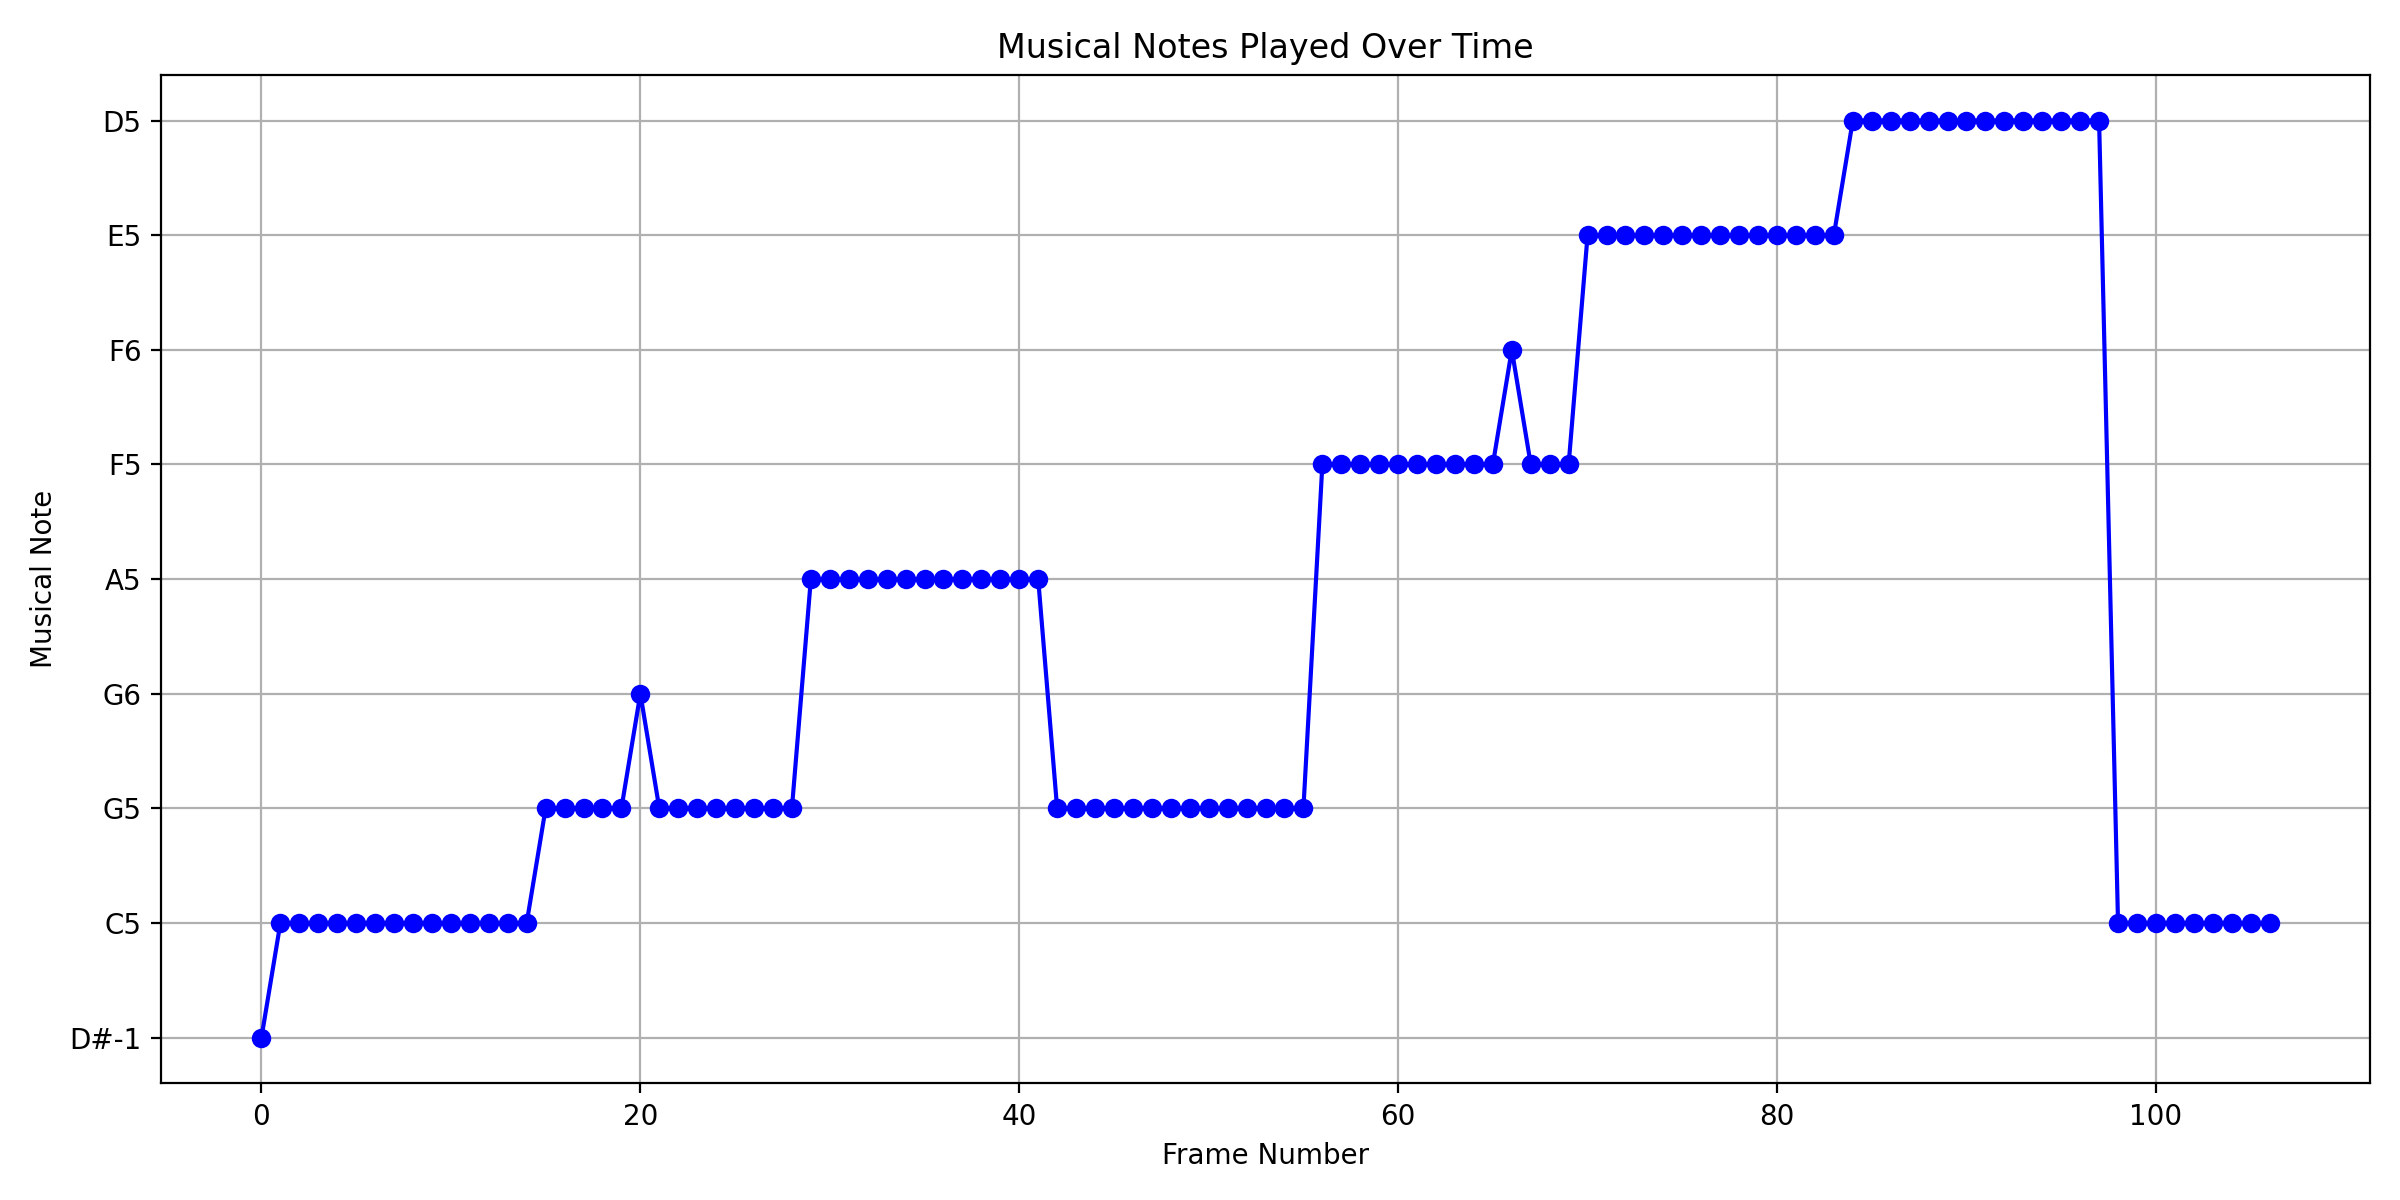
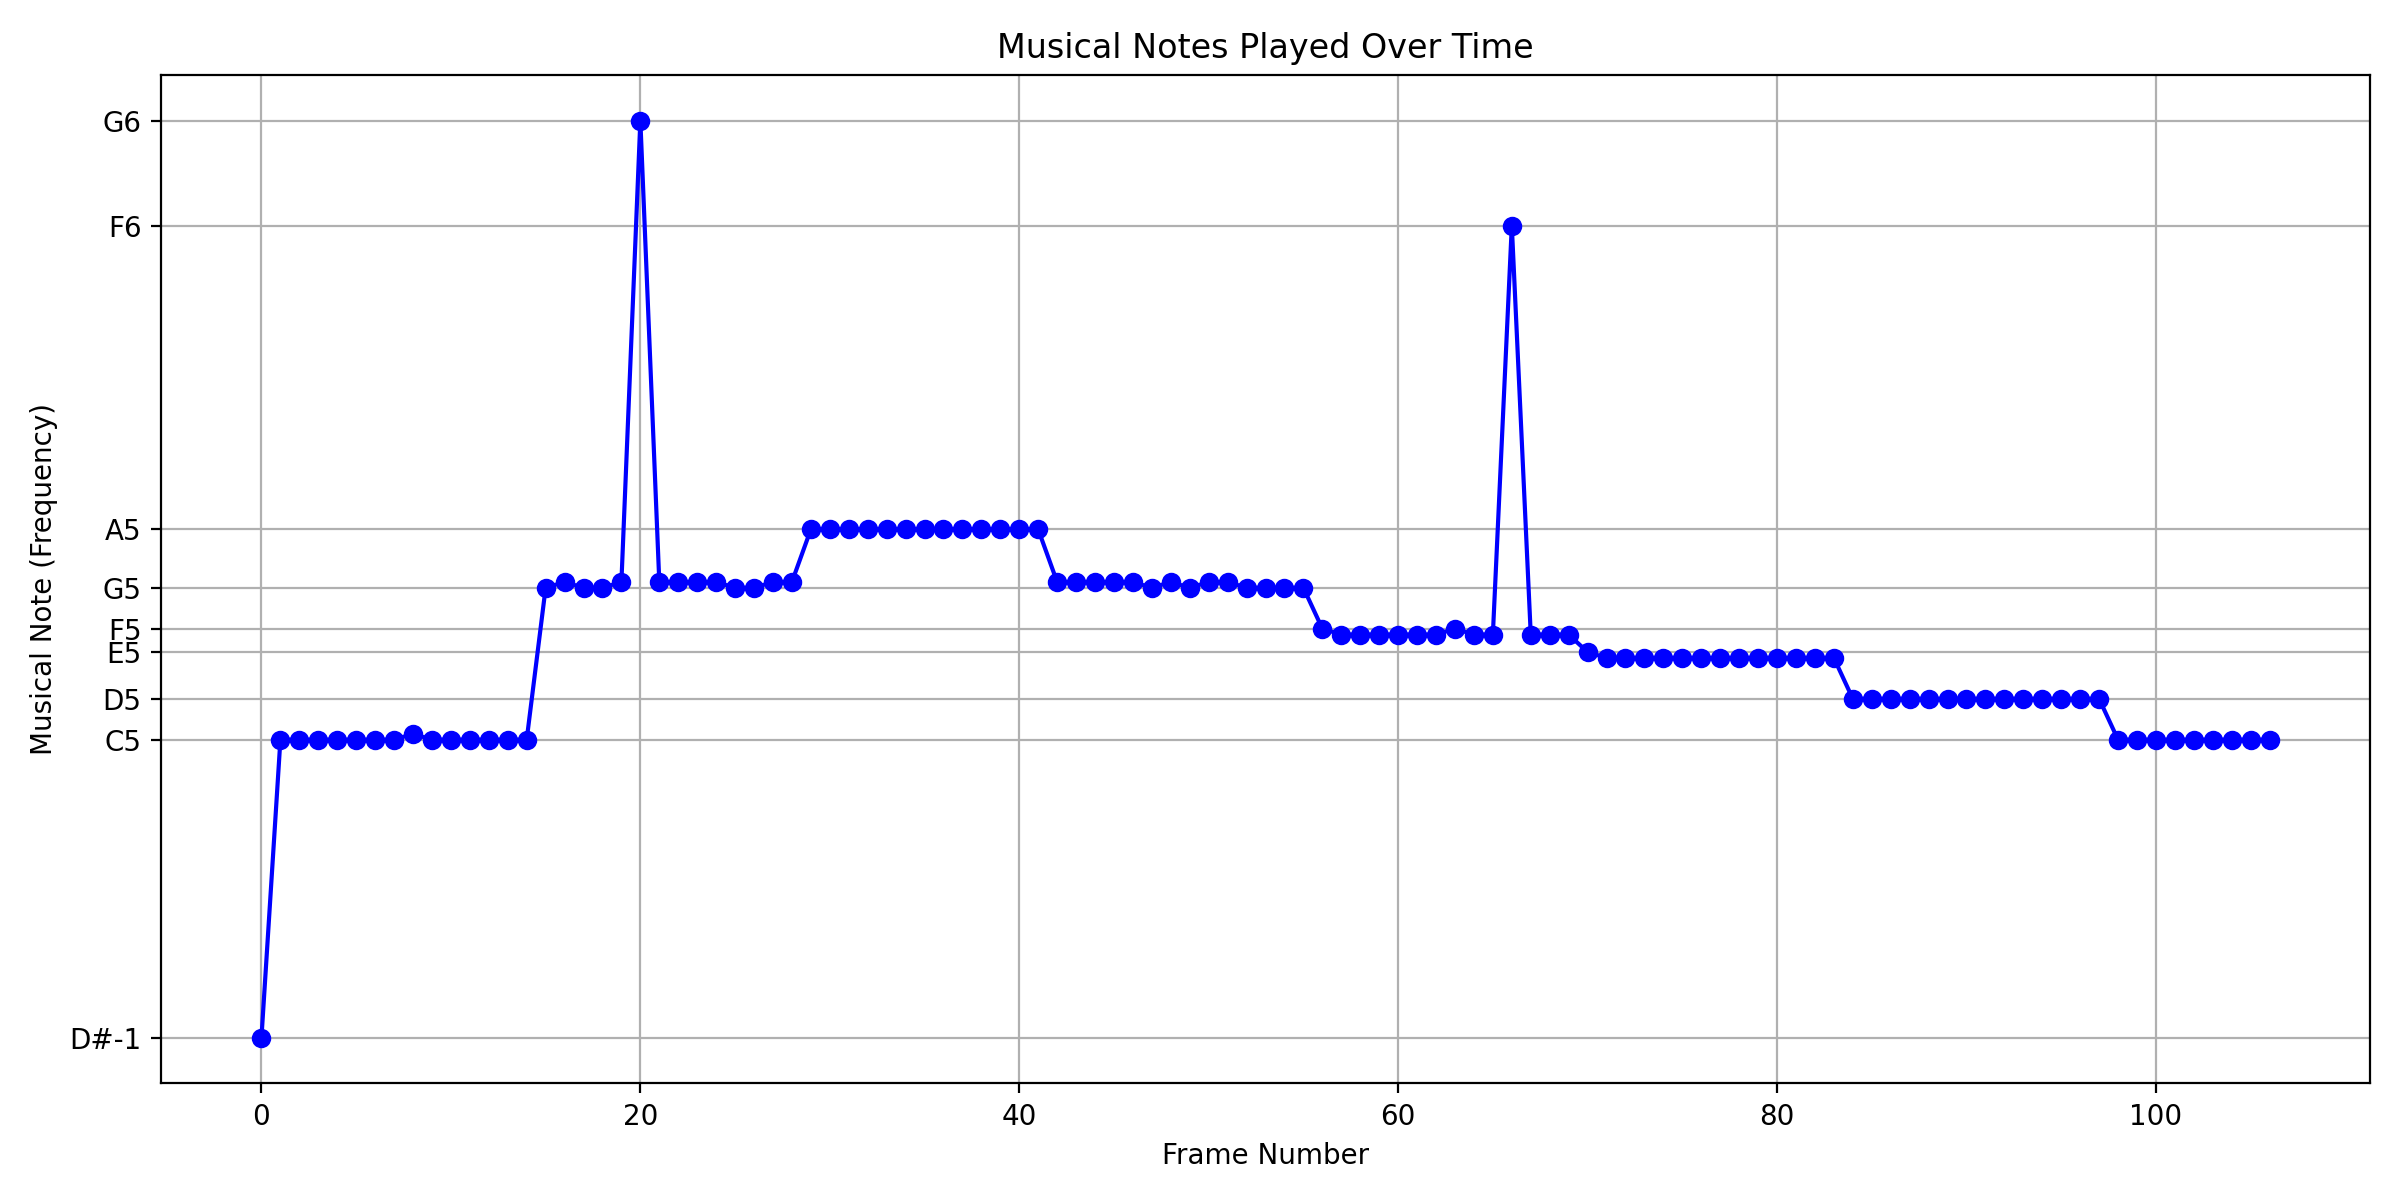
Fix y label for figures and sort them by frequency

diff --git a/fft_wav.py b/fft_wav.py
@@ -4,6 +4,8 @@ import math
 import argparse
 import matplotlib.pyplot as plt
 
+
+
 # Function to convert frequency to musical note
 def freq_to_note(frequency):
     # define constants that control the algorithm
@@ -99,8 +101,6 @@ def find_top_notes(fft, num, xf):
 
     return found_notes
 
-
-
 def visualize_waveform(samples, sample_rate):
     # Create a time vector based on the sample rate and number of samples
     time = np.arange(0, len(samples)) / sample_rate
@@ -117,10 +117,25 @@ def visualize_waveform(samples, sample_rate):
     # Show the plot or save it to a file
     plt.show()
 
-def visualize_note(notes):
-    # Create a simple plot to visualize the notes in order
+def visualize_note(notes_data):
+    # Extract frequencies and notes from the input data
+    frequencies = [note_info[0] for note_info in notes_data]
+    notes = [note_info[1] for note_info in notes_data]
+
+    # Create a simple plot with frames on the x-axis and musical notes on the y-axis
     plt.figure(figsize=(12, 6))
-    plt.plot(range(len(notes)), notes, marker='o', linestyle='-', color='b')
+    plt.plot(range(len(notes_data)), frequencies, marker='o', linestyle='-', color='b')
+
+    # Set the y-axis labels to be the musical notes, removing duplicates
+    unique_notes = []
+    unique_frequencies = []
+    for frequency, note in zip(frequencies, notes):
+        if note not in unique_notes:
+            unique_notes.append(note)
+            unique_frequencies.append(frequency)
+
+    plt.yticks(unique_frequencies, unique_notes)
+    
     plt.xlabel('Frame Number')
     plt.ylabel('Musical Note')
     plt.title('Musical Notes Played Over Time')
@@ -152,7 +167,7 @@ def process_audio(input_file):
 
     # Create a list to store note information for all frames
     audio_samples = []
-    detected_notes = []
+    all_notes = []
 
     for frame_number in range(FRAME_COUNT):
         sample = extract_sample(audio_data, frame_number, FRAME_OFFSET, FFT_WINDOW_SIZE)
@@ -172,19 +187,20 @@ def process_audio(input_file):
         fft /= mx
 
         # Find the top N musical notes for this frame
-        top_notes = find_top_notes(fft, num=1, xf=xf)  # Pass xf to find_top_notes
-        detected_notes.extend([note_info[1] for note_info in top_notes])
+        # Pass xf to find_top_notes
+        top_notes = find_top_notes(fft, num=1, xf=xf)  
         
         # Print the top notes for this frame
-        print(f"Frame {frame_number} - Top Notes:")
+        print(f"Frame {frame_number}:")
         for note_info in top_notes:
             frequency, note, amplitude = note_info
             # The reference frequency (e.g., A4 at 440 Hz)
-            cents_difference = 1200 * np.log2(frequency / 440.0)
+            cents_difference = 1200 * np.log2((frequency) / 440.0)
+            all_notes.append(note_info)
             print(f"Note: {note}, Flatness/Sharpness (cents): {cents_difference:.2f}")
-
+   
     # Visualize the top notes and waveform
-    visualize_note(detected_notes)
+    visualize_note(all_notes)
     visualize_waveform(audio_samples, fs)
     
     
@@ -195,4 +211,4 @@ if __name__ == "__main__":
     args = parser.parse_args()
     process_audio(args.input_file)
 
-
+# print(process_audio("/Users/School/Desktop/Sites/WAV-Notes-Converter/wav-files/twinkle.wav"))
